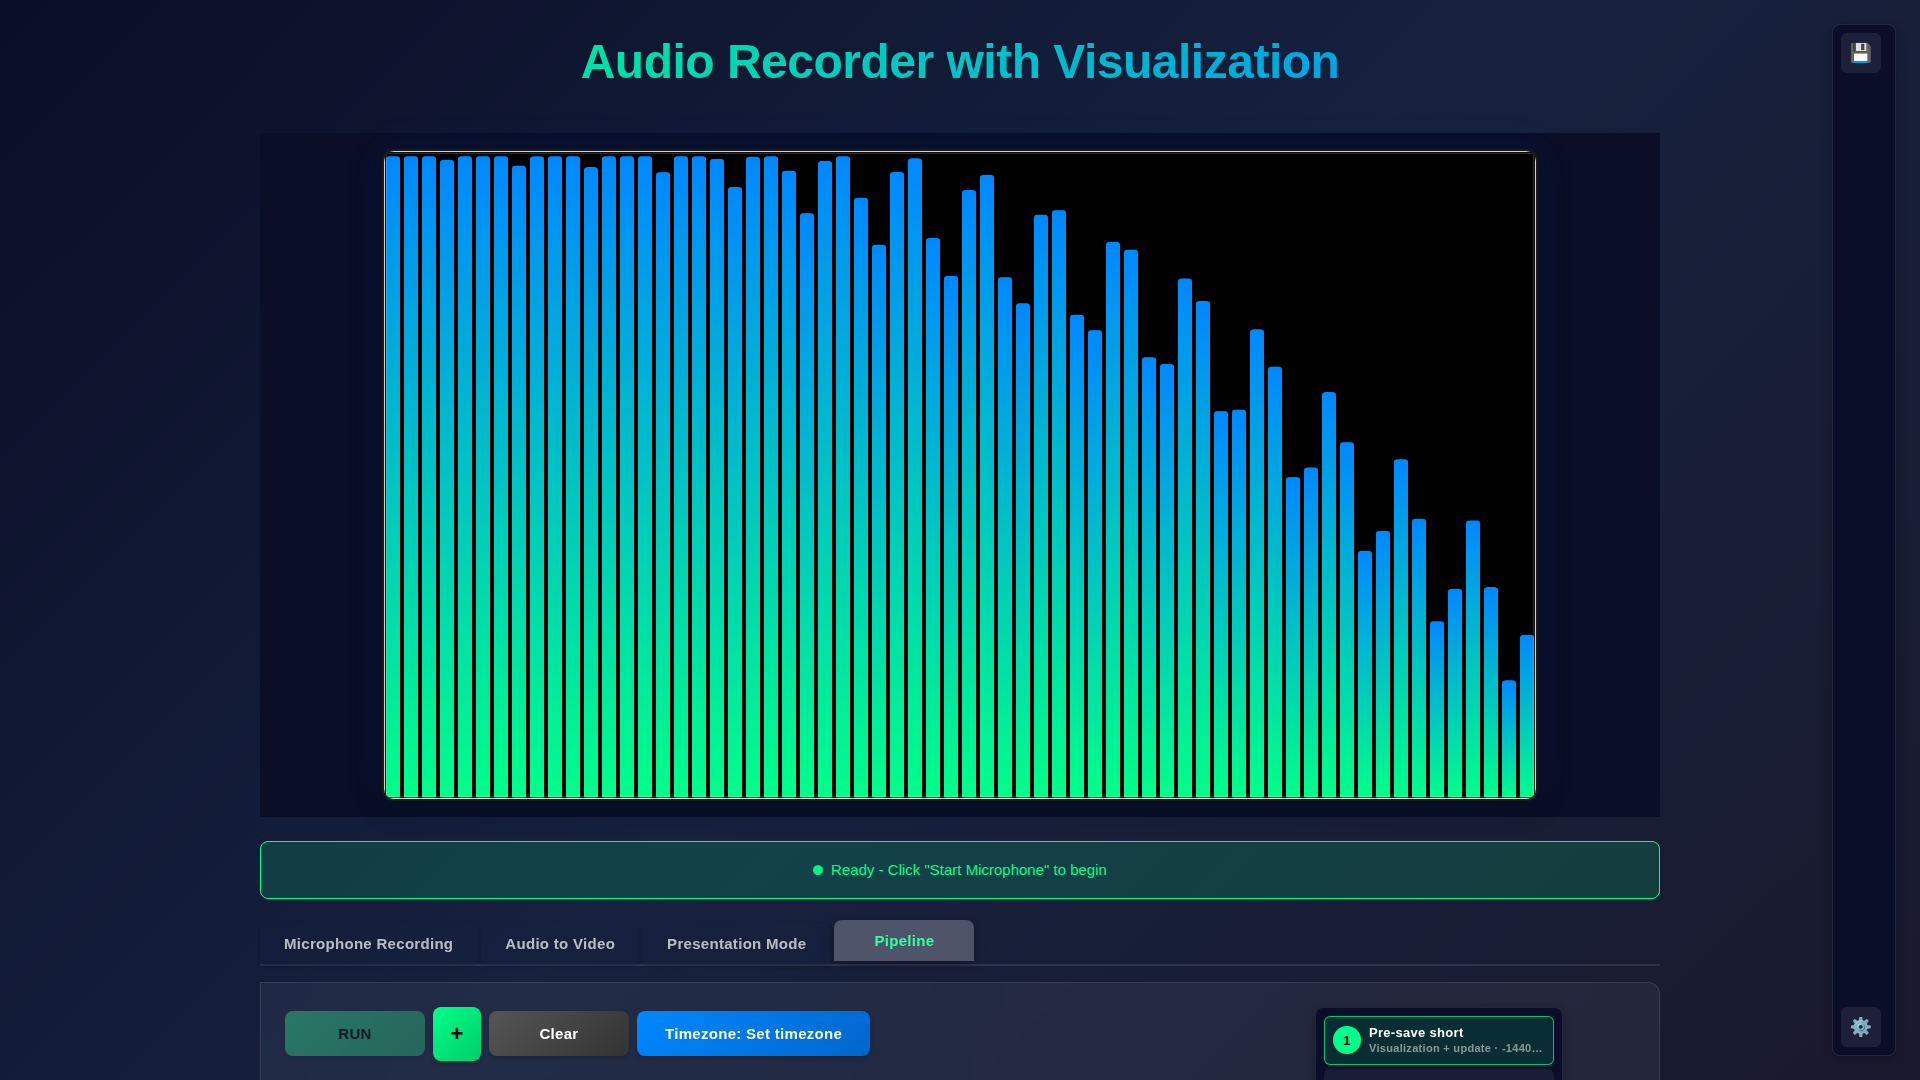
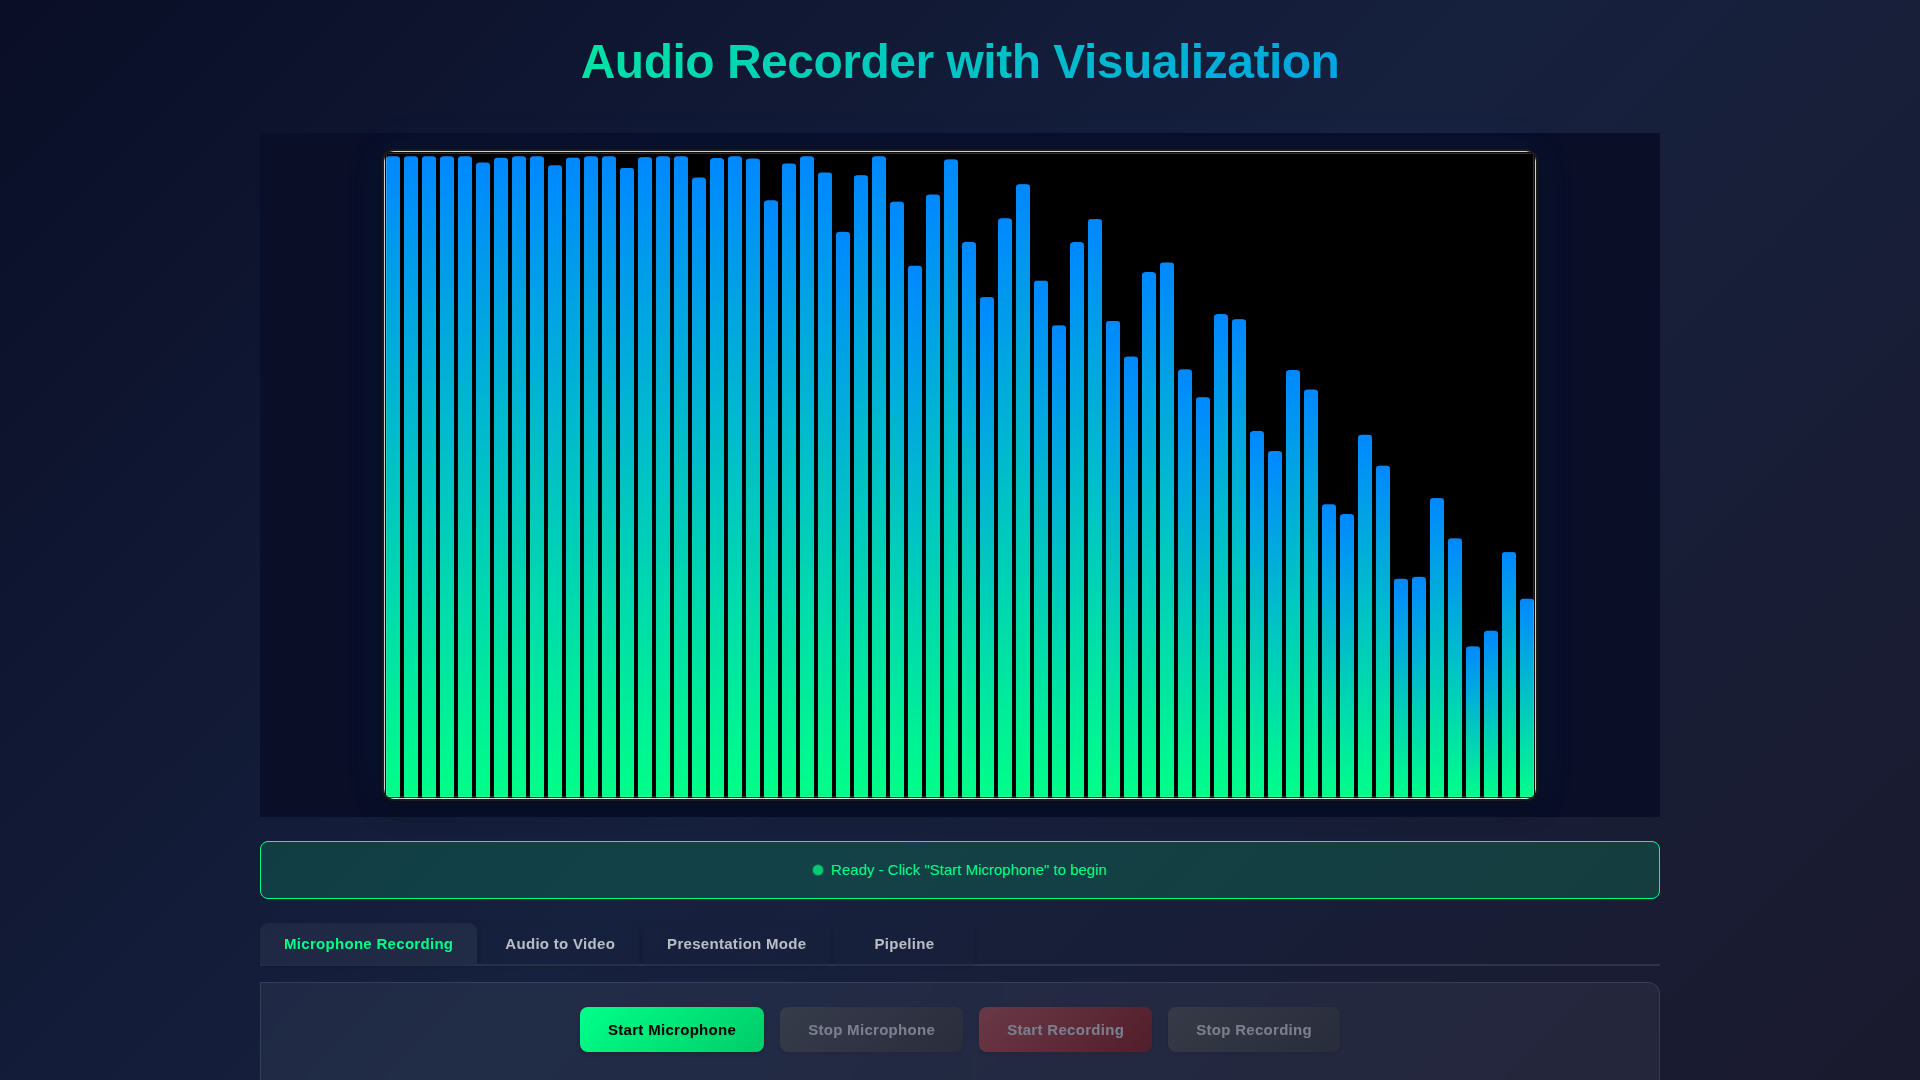
Fix pipeline navigator fixed overlay layout

diff --git a/cypress/e2e/pipeline-mode.cy.js b/cypress/e2e/pipeline-mode.cy.js
@@ -39,13 +39,19 @@ describe('Pipeline Mode', () => {
     cy.get('#pipelineList .pipeline-load-btn').should('have.length', 1).and('contain.text', 'Pipeline 1');
   });
 
-  it('shows a sticky numbered stage navigator that scrolls to pipeline stages', () => {
+  it('shows a fixed numbered stage navigator that scrolls to pipeline stages without narrowing cards', () => {
     cy.get('#pipelineStageNav')
       .should('have.class', 'is-open')
-      .and('have.css', 'position', 'sticky')
+      .and('have.css', 'position', 'fixed')
       .and('have.css', 'pointer-events', 'auto');
     cy.get('#pipelineStageNav').then(($nav) => {
       expect($nav[0].getBoundingClientRect().height).to.be.lessThan(260);
+    });
+    cy.get('.pipeline-workspace').then(($workspace) => {
+      expect($workspace.css('display')).to.eq('block');
+    });
+    cy.get('.pipeline-stage').first().then(($stage) => {
+      expect($stage[0].getBoundingClientRect().width).to.be.greaterThan(900);
     });
     cy.get('#pipelineStageNav .pipeline-stage-nav-btn').should('have.length', 3);
     cy.get('#pipelineStageNav .pipeline-stage-nav-btn').eq(0)

diff --git a/examples/styles.css b/examples/styles.css
@@ -131,12 +131,13 @@ body {
 }
 
 .pipeline-stage-nav {
-  position: sticky;
-  top: var(--spacing-lg);
+  position: fixed;
+  top: auto;
+  right: calc(300px + var(--spacing-lg));
+  bottom: var(--spacing-lg);
   z-index: 245;
   width: 248px;
   max-height: calc(100vh - (var(--spacing-lg) * 2));
-  align-self: start;
   display: flex;
   flex-direction: column;
   gap: var(--spacing-xs);
@@ -1234,10 +1235,7 @@ button:focus-visible {
 }
 
 .pipeline-workspace {
-  display: grid;
-  grid-template-columns: minmax(0, 1fr) 248px;
-  gap: var(--spacing-md);
-  align-items: start;
+  display: block;
   max-width: calc(100% - 88px);
 }
 
@@ -1526,13 +1524,10 @@ button:focus-visible {
 
 @media (max-width: 900px) {
   .pipeline-workspace {
-    display: block;
     max-width: none;
   }
 
   .pipeline-stage-nav {
-    position: fixed;
-    top: auto;
     right: var(--spacing-lg);
     left: var(--spacing-lg);
     bottom: var(--spacing-lg);

diff --git a/examples/index.html b/examples/index.html
@@ -200,8 +200,8 @@
         <p id="pipelineValidationStatus" class="pipeline-validation-status" aria-live="polite"></p>
         <div class="pipeline-workspace">
           <div id="pipelineStages" class="pipeline-stages" aria-live="polite"></div>
-          <nav id="pipelineStageNav" class="pipeline-stage-nav" aria-label="Pipeline stage navigation"></nav>
         </div>
+        <nav id="pipelineStageNav" class="pipeline-stage-nav" aria-label="Pipeline stage navigation"></nav>
       </div>
     </div>
 

diff --git a/docs/case-studies/issue-136/analysis.md b/docs/case-studies/issue-136/analysis.md
@@ -4,6 +4,8 @@
 
 Issue 136 asks for a fixed widget between the main pipeline window and the right sidebar. The widget must stay visible in pipeline mode, show a numbered list of stages ordered by date, include the output file name, action, and upload date for update actions, highlight the stage currently on screen, and scroll to a stage when clicked.
 
+PR review feedback clarified two layout constraints: the navigator must remain visible instead of scrolling away, and it must sit outside the stage section so pipeline stage cards do not lose horizontal space. The widget height should follow its rendered list content, with only a max-height guard for small viewports.
+
 ## Collected Repository Data
 
 - `examples/index.html` contains the pipeline tab, stage container, and existing right pipeline sidebar.
@@ -34,4 +36,4 @@ References:
 
 ## Implemented Direction
 
-The implementation adds a `#pipelineStageNav` local nav next to `#pipelineStages`, renders one button per stage, and keeps it synchronized with stage add/remove/load/render updates. Each item includes the stage number, output title, action label, and upload timing when the action includes update. Clicking an item scrolls its stage into view, and `IntersectionObserver` updates the active item as the user scrolls.
+The implementation adds a fixed `#pipelineStageNav` outside the pipeline stage section, renders one button per stage, and keeps it synchronized with stage add/remove/load/render updates. Each item includes the stage number, output title, action label, and upload timing when the action includes update. Clicking an item scrolls its stage into view, and `IntersectionObserver` updates the active item as the user scrolls. The navigator is content-sized by default and constrained only by viewport max-height, so it remains visible without forcing empty vertical space or narrowing stage cards.
